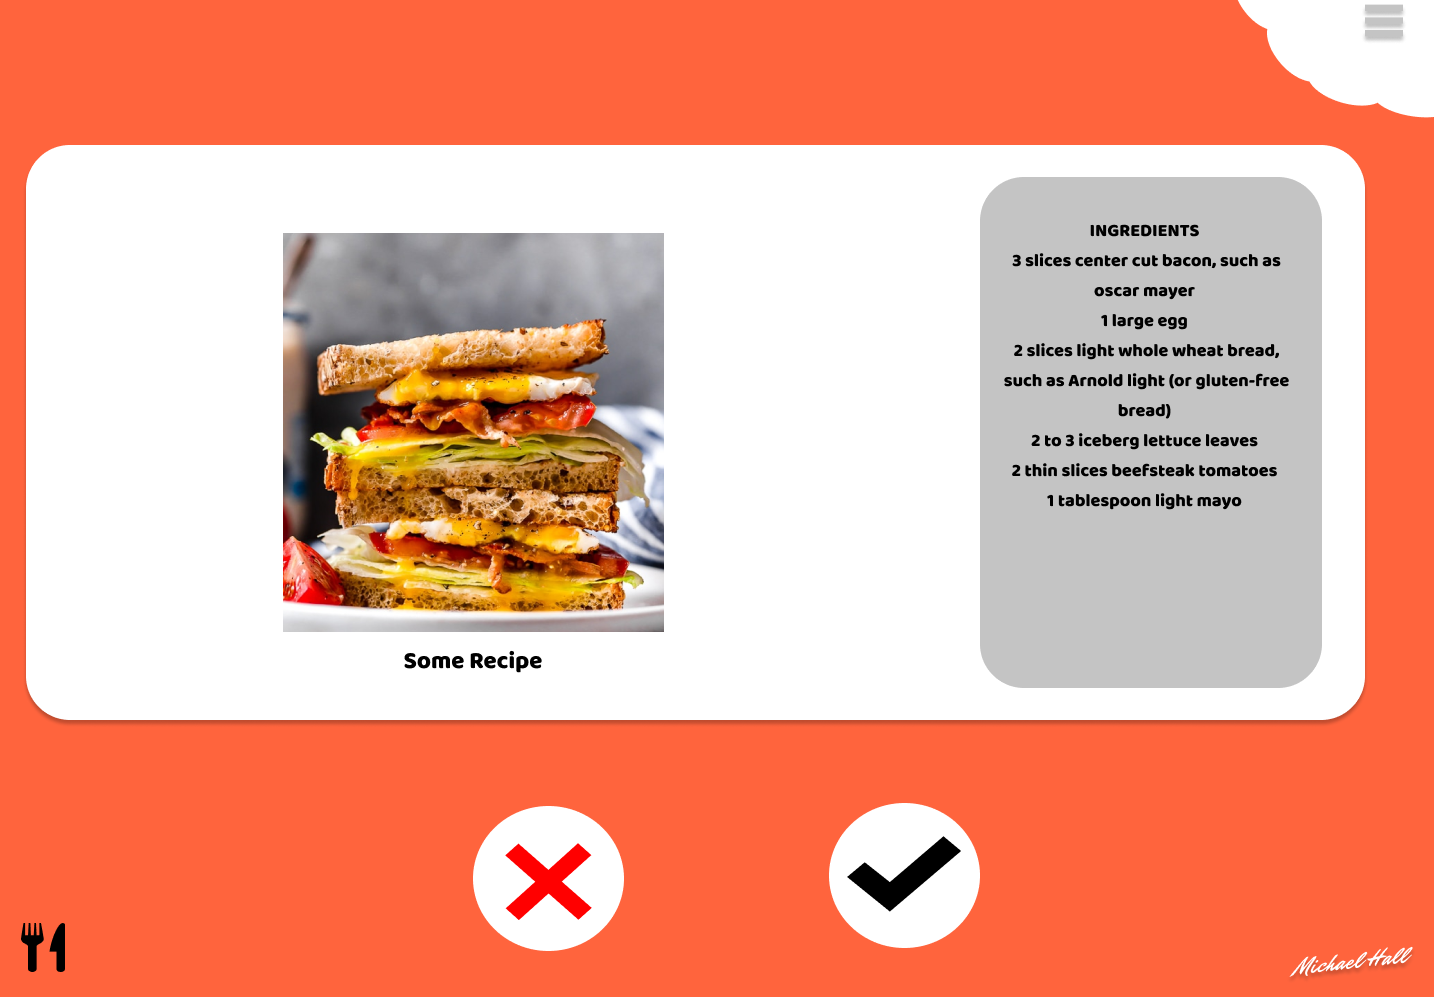
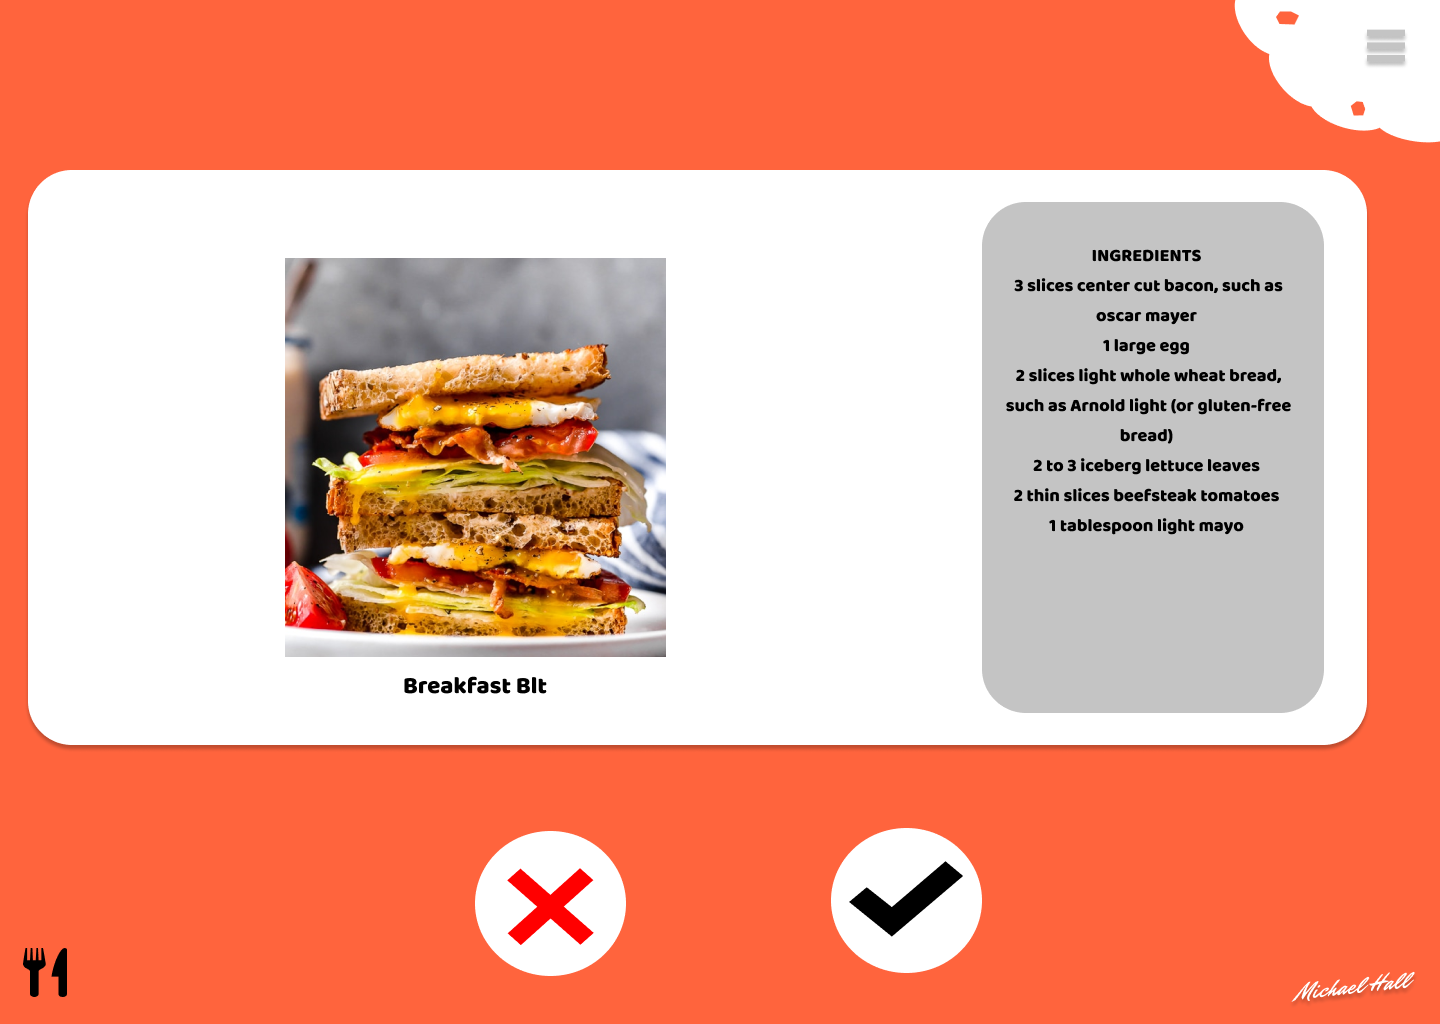
Made responsive changes

diff --git a/src/components/header.js b/src/components/header.js
@@ -67,11 +67,9 @@ const Arrow = styled.img`
     height: calc(20px + 3vw);
     transform: rotate(90deg);
     display: block;
-    position: absolute;
-    top: 40%;
-    margin-left: auto;
-    margin-right: auto;
-    margin-top: 9%
+    position: relative;
+    top: 100%;
+    margin: 0 auto;
     
 `;
 
@@ -111,12 +109,12 @@ const Header = () => {
              
                
                
+             <Jump count={10} delay={1000}> 
+                    <Arrow  alt='' src={arrow}></Arrow>
+            </Jump> 
 
             </Content>
              
-            {/*  <Jump count={10} delay={1000}> 
-                    <Arrow  alt='' src={arrow}></Arrow>
-            </Jump>  */}
             
 
 

diff --git a/src/components/education.js b/src/components/education.js
@@ -11,7 +11,7 @@ const Section = styled.div`
     color: white;
     position: relative;
     width: 100%;
-    height: 64vh;
+    height: 55vh;
     font-size: calc(.5em + .65vw);
     
 
@@ -35,17 +35,17 @@ const Section = styled.div`
 
     @media(max-width: 1440px) {
      
-        height: 50vh;
+        height: 40vh;
 
     }
     @media(max-width: 1024px) {
         
-        height: 40vh;
+        height: 35vh;
 
     }
     @media(max-width: 768px) {
         
-        height: 35vh;
+        height: 30vh;
         margin-top: 3%;
 
     }

diff --git a/src/components/card.js b/src/components/card.js
@@ -1,6 +1,4 @@
 import React, {Component}  from 'react'
-import Fade from 'react-reveal/Fade'
-import withReveal from 'react-reveal/withReveal'
 import styled from 'styled-components'
 import Img from 'gatsby-image'
 import PropTypes from 'prop-types'
